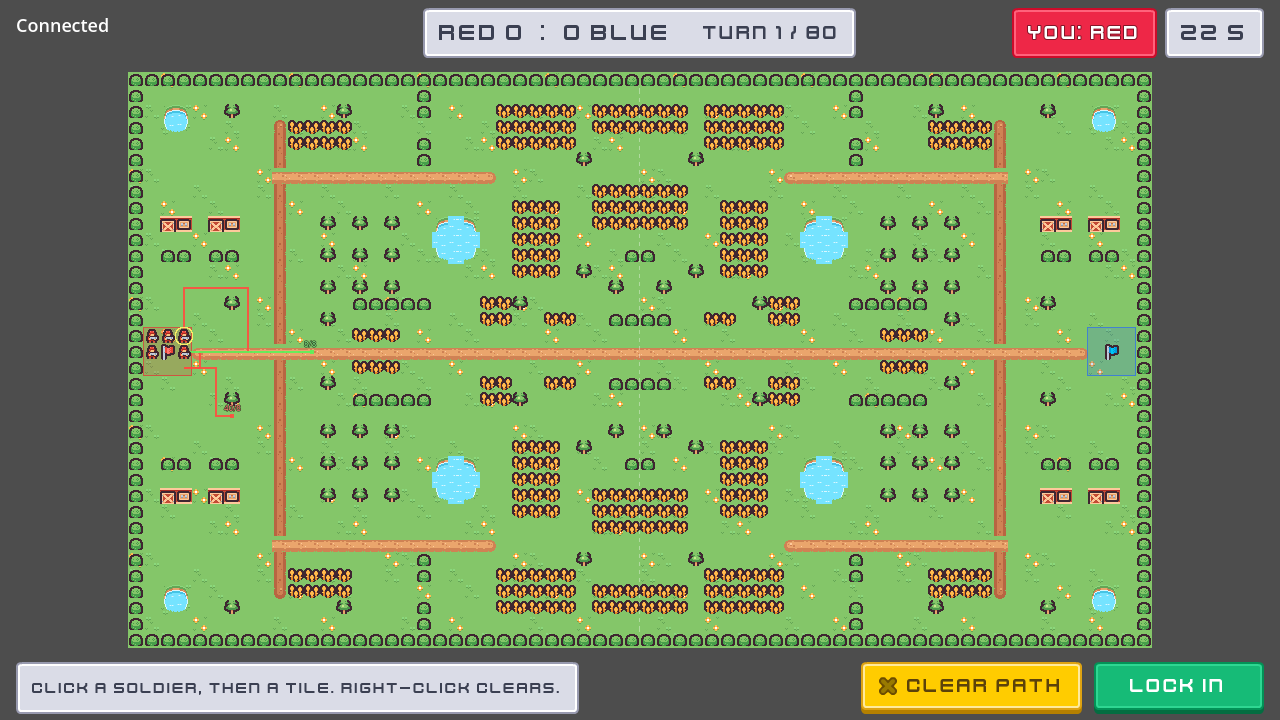
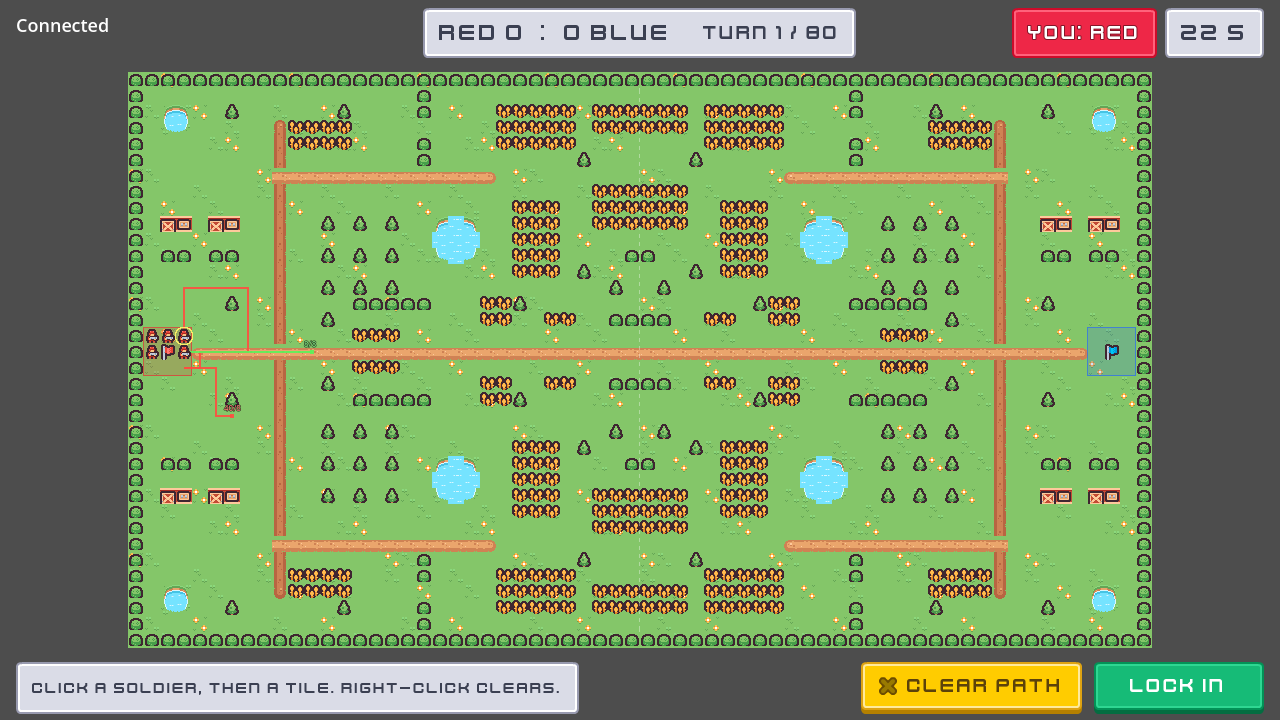
Draw Tiny Flag's trees with the one-tile pine
FlagArt.TREE was Tiny Farm tile 15, the bottom half of the tall two-tile
pine, so every tree on the board was a trunk with no top. Tile 27 is
the pack's complete one-tile pine. Screenshot refreshed.

Claude-Session: https://claude.ai/code/session_01MHtnKUNzN9cmWH3XTD5r3g

diff --git a/CHANGELOG.md b/CHANGELOG.md
@@ -22,6 +22,7 @@ Each release's section becomes the notes of its GitHub Release (`tools/release_n
 - The starter's box-arena skeletons (`box_arena_2d`, `box_arena_3d`): Tiny Flag is the only game here now (`Protocol.PORTS`, `tools/smoke.sh all`, the Caddyfiles, compose services and systemd notes list just `flag`). `tools/run_server.sh`, `tools/run_client.sh` and the Docker entrypoint default to `Protocol.DEFAULT_GAME` when no game is named; the image defaults to `GAME=flag`. To start another game, copy a skeleton from paulshannon/game-starter.
 
 ### Fixed
+- Tiny Flag trees are whole: the board drew the bottom half of Tiny Farm's two-tile pine (a trunk with no top), and now uses the pack's one-tile pine.
 - Tiny Flag spectators see only the public view (pieces both teams can see, plus flag carriers), still one turn behind. They used to get every piece, so a second browser tab could see through the fog of war.
 - Tiny Flag's result banner appears once the final turn's playback has finished, instead of covering the board while the winning move animates.
 - A Tiny Flag finger whose release was taken by a button, or lost to an app switch or system gesture, no longer blocks every later tap until the next turn: fingers are tracked from every input event and forgotten when the window loses focus.
